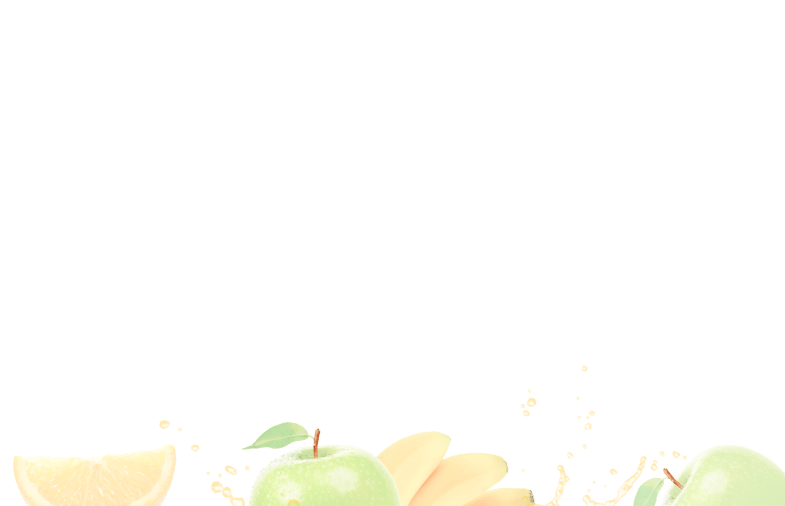
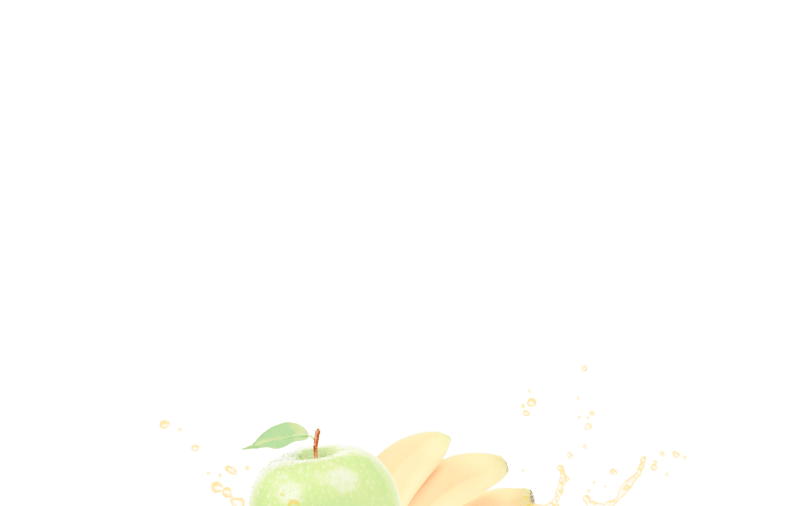
changed position images

Changed region(s): [[0.0, 0.8893, 0.2446, 1.0], [0.7949, 0.8597, 1.0, 1.0]]

diff --git a/src/sass/_footer.scss b/src/sass/_footer.scss
@@ -14,15 +14,19 @@
       url(../images/mobile/footer/fruit-bottom-mob@2x-min.png);
   }
   @include tablet {
-    background-image: url(../images/tablet/footer/orange-left-tablet-min.png),
+    background-image: url(../images/tablet/footer/orange-right-tablet-min.png),
+      url(../images/tablet/footer/orange-left-tablet-min.png),
+      url(../images/tablet/footer/apple-right-tablet-min.png),
       url(../images/tablet/footer/fruit-bottom-tablet-min.png);
-    background-size: 203px 365px, 768px 506px;
+    background-size: 203px 365px, 184px 49px, 132px 56px, 768px 506px;
     background-repeat: no-repeat;
-    background-position: top right, center bottom;
+    background-position: top right, left bottom, right bottom, center bottom;
     @media (min-device-pixel-ratio: 2),
       (min-resolution: 192dpi),
       (min-resolution: 2dppx) {
-      background-image: url(../images/tablet/footer/orange-left-tablet@2x-min.png),
+      background-image: url(../images/tablet/footer/orange-right-tablet@2x-min.png),
+        url(../images/tablet/footer/orange-left-tablet@2x-min.png),
+        url(../images/tablet/footer/apple-right-tablet@2x-min.png),
         url(../images/tablet/footer/fruit-bottom-tablet@2x-min.png);
     }
   }
